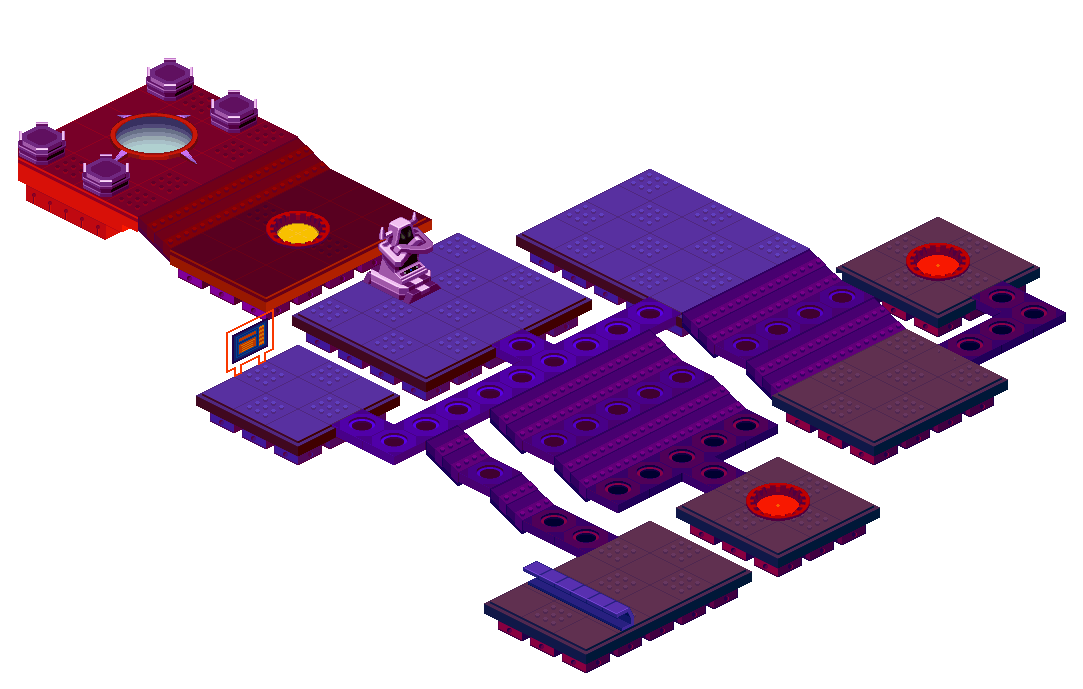
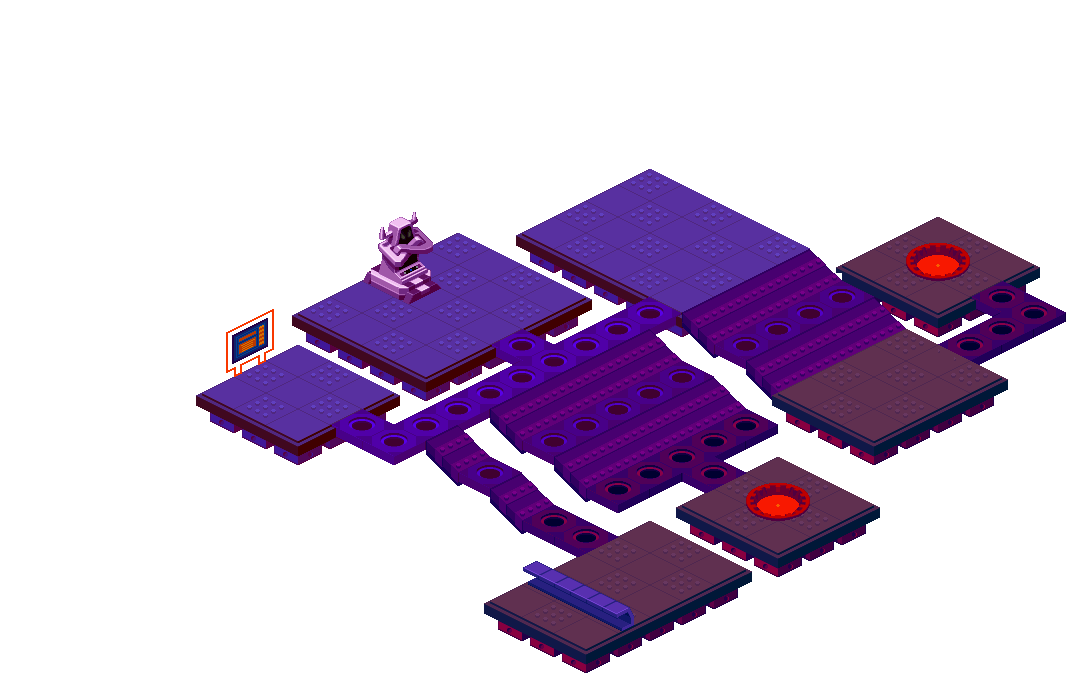
updated undernet square
still needs work,

warps arent animated yet, also need to figure out exactly how i want to link to secret net,

see last commits description for a reminder

Changed region(s): [[0.0, 0.0914, 0.3961, 0.4572]]

diff --git a/assets/tiles/Undernet_SquareF2.tsx b/assets/tiles/Undernet_SquareF2.tsx
@@ -1,0 +1,4 @@
+<?xml version="1.0" encoding="UTF-8"?>
+<tileset version="1.8" tiledversion="1.8.4" name="Undernet_SquareF2" tilewidth="429" tileheight="301" tilecount="1" columns="1" objectalignment="top">
+ <image source="Undernet_SquareF2.png" width="429" height="301"/>
+</tileset>
